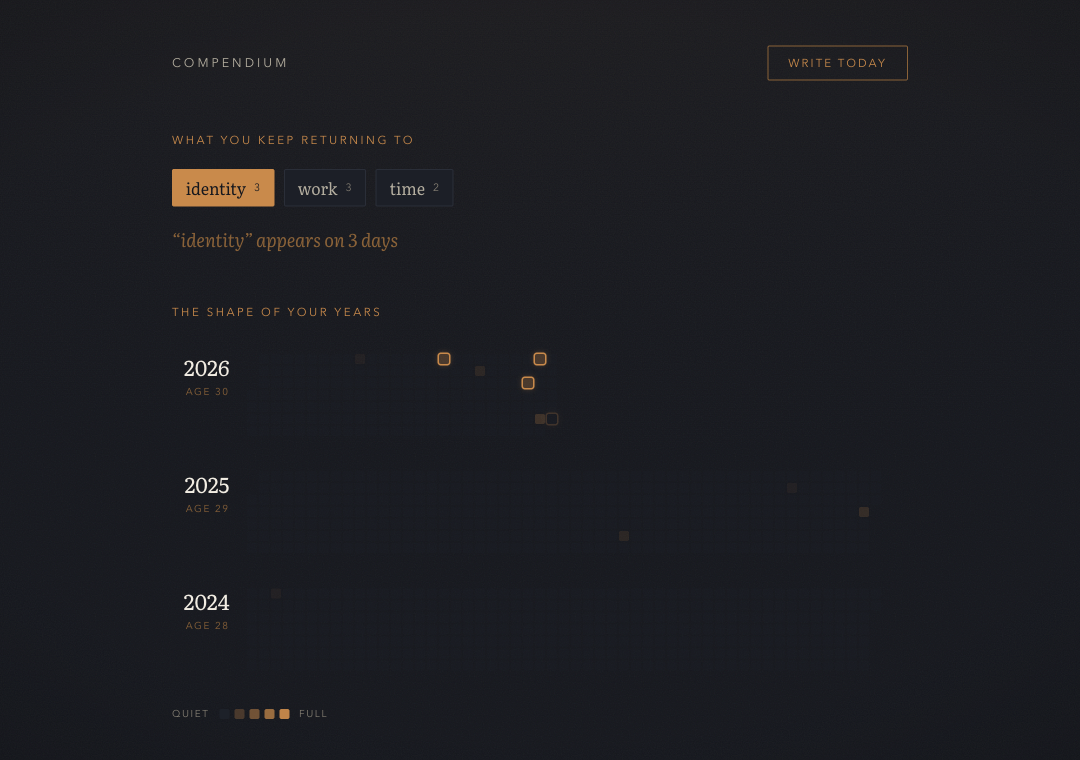
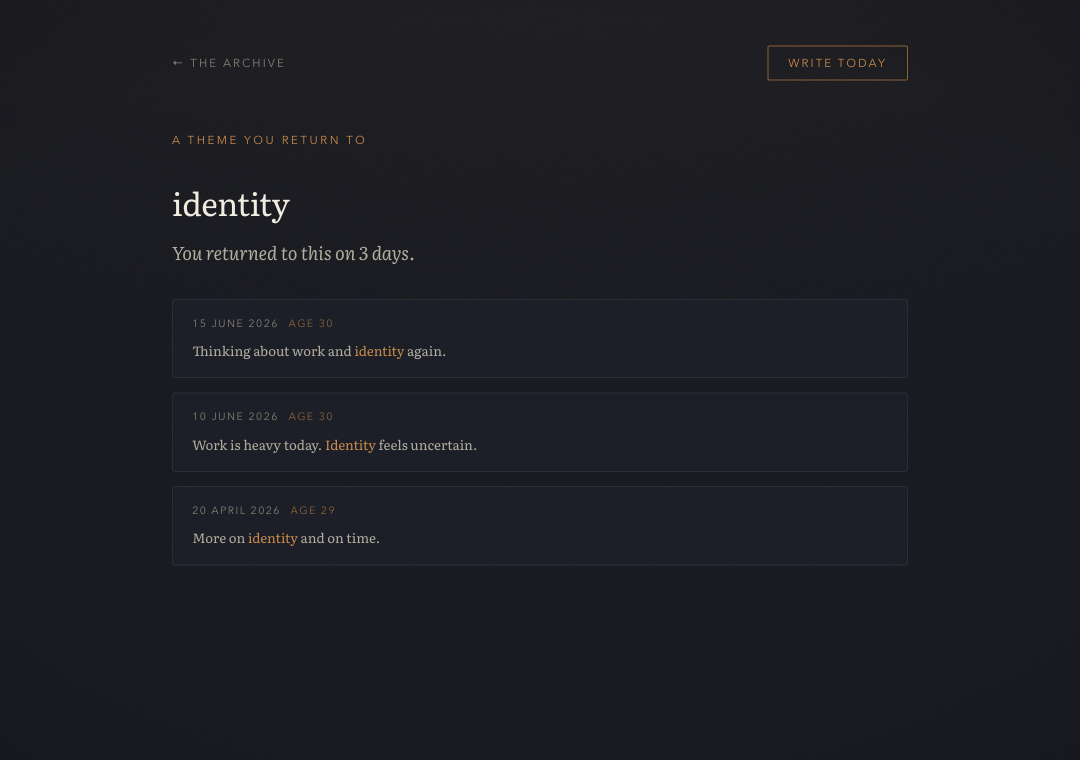
Make themes a drill-in, not just a heatmap highlight
Clicking a theme now opens a focused view of every day you wrote about it,
each with a snippet showing the word in context, and clicking an entry reads
the full day. Back returns you to the theme, not a random month. This takes
you straight to what you actually said, which the heatmap highlight did not.

- New theme-view screen; themes.js builds it with context snippets
- nav.js centralises reader opening with an origin, so the reader's back
  button returns to wherever you came from (thread or theme)
- Refresh the themes screenshot and copy to match

diff --git a/js/nav.js b/js/nav.js
@@ -1,31 +1,46 @@
 /* ============================================================================
-   nav.js: moves between screens after boot. The descent:
+   nav.js: moves between screens after boot.
 
-     today  <->  archive (heatmap)
-                   |  click a day-cell
-                   v
-                 thread (that day's month, day by day)
-                   |  click a written day
-                   v
-                 reader (the full entry, read-only)
+     today  <->  archive (heatmap + themes)
+                   |  click a day-cell            |  click a theme
+                   v                              v
+                 thread (a month, day by day)   theme-view (every day on a theme)
+                   \________________  __________/
+                                    \/  click a written day
+                                  reader (the full entry; back returns to wherever
+                                          you came from)
+                 archive  ->  settings (your data: export / import)
 
    ritual.js owns the initial onboarding -> today transition. nav.js owns every
-   transition after that, toggling the [hidden] attribute (which, per the CSS,
-   genuinely removes a screen from layout and focus order). Today is always for
+   transition after that, toggling the [hidden] attribute. Today is always for
    writing: a today-cell or today-dot jumps straight to the writing screen.
    ============================================================================ */
 
 (() => {
   const { todayId } = window.CDate;
-  const screens = ['onboarding', 'ritual', 'archive', 'thread', 'reader', 'settings']
-    .map((id) => document.getElementById(id));
+  const ids = ['onboarding', 'ritual', 'archive', 'thread', 'reader', 'settings', 'theme-view'];
+  const screens = ids.map((id) => document.getElementById(id));
+  let readerOrigin = 'thread'; // where the reader's back button returns to
 
   function show(id) {
     screens.forEach((s) => { s.hidden = s.id !== id; });
     window.scrollTo(0, 0);
   }
-
   const monthOf = (id) => [parseInt(id.slice(0, 4), 10), parseInt(id.slice(5, 7), 10) - 1];
+
+  async function openReaderFor(date, origin) {
+    if (date === todayId()) { show('ritual'); return; } // today is for writing
+    const entry = await DB.getEntry(date);
+    if (!entry || !entry.text || !entry.text.trim()) return;
+    readerOrigin = origin;
+    const d = new Date(entry.id + 'T00:00:00');
+    document.getElementById('reader-weekday').textContent = d.toLocaleDateString(undefined, { weekday: 'long' });
+    document.getElementById('reader-date').textContent = d.toLocaleDateString(undefined, { day: 'numeric', month: 'long', year: 'numeric' });
+    document.getElementById('reader-age').textContent = entry.age != null ? `Age ${entry.age}` : '';
+    document.getElementById('reader-text').textContent = entry.text;
+    show('reader');
+  }
+  window.Nav = { show, openReaderFor };
 
   // today <-> archive
   document.getElementById('to-archive').addEventListener('click', async () => {
@@ -33,17 +48,16 @@
     await Themes.render();
     show('archive');
   });
+  ['to-today', 'thread-today', 'reader-today', 'settings-today', 'theme-today'].forEach((id) => {
+    const el = document.getElementById(id);
+    if (el) el.addEventListener('click', () => show('ritual'));
+  });
 
-  // every "Write today" button and the today markers return to writing
-  ['to-today', 'thread-today', 'reader-today', 'settings-today'].forEach((id) =>
-    document.getElementById(id).addEventListener('click', () => show('ritual')));
-
-  // settings (reached from the archive nav)
-  document.querySelectorAll('.to-settings').forEach((el) =>
-    el.addEventListener('click', () => show('settings')));
+  // settings
+  document.querySelectorAll('.to-settings').forEach((el) => el.addEventListener('click', () => show('settings')));
   document.getElementById('settings-back').addEventListener('click', () => show('archive'));
 
-  // archive: click a day-cell -> open its month thread (today -> writing)
+  // archive: a day-cell opens its month thread
   document.getElementById('heatmap').addEventListener('click', async (e) => {
     const cell = e.target.closest('.cell');
     if (!cell) return;
@@ -54,42 +68,35 @@
     show('thread');
   });
 
-  // thread: back to archive, or click a written day -> reader (today -> writing)
-  document.getElementById('thread-back').addEventListener('click', () => show('archive'));
-  document.getElementById('thread-track').addEventListener('click', async (e) => {
-    const dot = e.target.closest('.tdot');
-    if (!dot) return;
-    const date = dot.dataset.date;
-    if (date === todayId()) { show('ritual'); return; }
-    const entry = await DB.getEntry(date);
-    if (entry && entry.text && entry.text.trim()) {
-      openReader(entry);
-      show('reader');
-    }
+  // archive: a theme chip opens the focused theme view
+  document.getElementById('themes').addEventListener('click', (e) => {
+    const chip = e.target.closest('.theme');
+    if (chip && Themes.openTheme(chip.dataset.word)) show('theme-view');
+  });
+  document.getElementById('theme-back').addEventListener('click', () => show('archive'));
+  document.getElementById('theme-entries').addEventListener('click', (e) => {
+    const row = e.target.closest('.theme-entry');
+    if (row) openReaderFor(row.dataset.date, 'theme-view');
   });
 
-  // reader: back returns to the month thread it was opened from
-  document.getElementById('reader-back').addEventListener('click', () => show('thread'));
+  // thread: a written day opens the reader
+  document.getElementById('thread-back').addEventListener('click', () => show('archive'));
+  document.getElementById('thread-track').addEventListener('click', (e) => {
+    const dot = e.target.closest('.tdot');
+    if (dot) openReaderFor(dot.dataset.date, 'thread');
+  });
 
-  // Esc steps back one level: reader -> thread -> archive -> today
+  // reader: back to wherever it was opened from
+  document.getElementById('reader-back').addEventListener('click', () => show(readerOrigin));
+
+  // Esc steps back one level
   document.addEventListener('keydown', (e) => {
     if (e.key !== 'Escape') return;
     const vis = (id) => !document.getElementById(id).hidden;
-    if (vis('reader')) show('thread');
+    if (vis('reader')) show(readerOrigin);
+    else if (vis('theme-view')) show('archive');
     else if (vis('settings')) show('archive');
     else if (vis('thread')) show('archive');
     else if (vis('archive')) show('ritual');
-    // on today / onboarding there is nowhere further back
   });
-
-  function openReader(entry) {
-    const d = new Date(entry.id + 'T00:00:00');
-    document.getElementById('reader-weekday').textContent =
-      d.toLocaleDateString(undefined, { weekday: 'long' });
-    document.getElementById('reader-date').textContent =
-      d.toLocaleDateString(undefined, { day: 'numeric', month: 'long', year: 'numeric' });
-    document.getElementById('reader-age').textContent =
-      entry.age != null ? `Age ${entry.age}` : '';
-    document.getElementById('reader-text').textContent = entry.text;
-  }
 })();

diff --git a/js/themes.js b/js/themes.js
@@ -1,30 +1,50 @@
 /* ============================================================================
-   themes.js: "what you keep returning to". This is the heart of the premise.
+   themes.js: "what you keep returning to". The heart of the premise.
 
-   It reads the recurring words across your entries (computed locally, no AI),
-   lists them on the archive, and lets you click one to light up every day it
-   appears on across your heatmap, so a loop in your thinking becomes visible.
+   The archive lists the words that recur across your entries (computed locally,
+   no AI). Clicking one opens a focused view of every day you wrote about it,
+   each with a snippet showing the word in context; clicking an entry reads the
+   full day. So a theme takes you straight to what you actually said, not just
+   to where on the calendar it lives.
 
-   Tokens come from patterns.js and are lowercase letters only, so they are safe
-   to place in markup without escaping.
+   Tokens come from patterns.js and are lowercase letters only, safe in markup.
    ============================================================================ */
 
 const Themes = (() => {
-  function clearHighlight(heatmap, list, status) {
-    list.querySelectorAll('.theme').forEach((b) => b.classList.remove('active'));
-    heatmap.querySelectorAll('.cell.is-marked').forEach((c) => c.classList.remove('is-marked'));
-    heatmap.classList.remove('filtered');
-    if (status) status.textContent = '';
+  let themes = [];
+  let entriesById = new Map();
+
+  function escapeHtml(s) {
+    return s.replace(/[&<>"']/g, (c) =>
+      ({ '&': '&amp;', '<': '&lt;', '>': '&gt;', '"': '&quot;', "'": '&#39;' }[c]));
+  }
+
+  // a window of text around the first mention of the word, with every
+  // occurrence emphasised
+  function snippet(text, word) {
+    const clean = text.replace(/\s+/g, ' ').trim();
+    const i = clean.toLowerCase().indexOf(word);
+    let s, lead = false, trail = false;
+    if (i < 0) {
+      s = clean.slice(0, 150); trail = clean.length > 150;
+    } else {
+      const start = Math.max(0, i - 70);
+      const end = Math.min(clean.length, i + word.length + 90);
+      s = clean.slice(start, end); lead = start > 0; trail = end < clean.length;
+    }
+    const re = new RegExp('(' + word.replace(/[.*+?^${}()|[\]\\]/g, '\\$&') + ')', 'ig');
+    const html = escapeHtml(s).replace(re, '<mark>$1</mark>');
+    return (lead ? '… ' : '') + html + (trail ? ' …' : '');
   }
 
   async function render() {
     const host = document.getElementById('themes');
     const written = (await DB.allEntries()).filter((e) => e.text && e.text.trim());
+    entriesById = new Map(written.map((e) => [e.id, e]));
 
-    // nothing written yet: let the heatmap's empty state speak instead
-    if (written.length === 0) { host.innerHTML = ''; return; }
+    if (written.length === 0) { host.innerHTML = ''; themes = []; return; }
 
-    const themes = Patterns.themeIndex(written, { minDays: 2, limit: 12 });
+    themes = Patterns.themeIndex(written, { minDays: 2, limit: 12 });
     if (themes.length === 0) {
       host.innerHTML =
         '<p class="themes-label">What you keep returning to</p>' +
@@ -38,31 +58,32 @@ const Themes = (() => {
       themes.map((t) =>
         `<button type="button" class="theme" data-word="${t.word}">` +
         `${t.word}<span class="theme-count">${t.count}</span></button>`).join('') +
-      '</div>' +
-      '<p class="themes-status" id="themes-status"></p>';
-
-    const heatmap = document.getElementById('heatmap');
-    const list = host.querySelector('.theme-list');
-    const status = document.getElementById('themes-status');
-
-    list.addEventListener('click', (e) => {
-      const btn = e.target.closest('.theme');
-      if (!btn) return;
-      const active = btn.classList.contains('active');
-      clearHighlight(heatmap, list, status); // selecting is single-choice; re-clicking clears
-      if (active) return;
-
-      btn.classList.add('active');
-      const theme = themes.find((t) => t.word === btn.dataset.word);
-      const days = new Set(theme.days);
-      heatmap.querySelectorAll('.cell').forEach((c) => {
-        if (days.has(c.dataset.date)) c.classList.add('is-marked');
-      });
-      heatmap.classList.add('filtered');
-      status.textContent =
-        `“${theme.word}” appears on ${theme.count} ${theme.count === 1 ? 'day' : 'days'}`;
-    });
+      '</div>';
   }
 
-  return { render };
+  // build the focused view for one theme; returns false if unknown
+  function openTheme(word) {
+    const theme = themes.find((t) => t.word === word);
+    if (!theme) return false;
+
+    document.getElementById('theme-view-title').textContent = word;
+    const n = theme.count;
+    document.getElementById('theme-view-sub').textContent =
+      `You returned to this on ${n} ${n === 1 ? 'day' : 'days'}.`;
+
+    const days = theme.days.slice().sort((a, b) => (a < b ? 1 : -1)); // newest first
+    document.getElementById('theme-entries').innerHTML = days.map((id) => {
+      const e = entriesById.get(id);
+      if (!e) return '';
+      const d = new Date(id + 'T00:00:00');
+      const dateStr = d.toLocaleDateString(undefined, { day: 'numeric', month: 'long', year: 'numeric' });
+      const ageStr = e.age != null ? `age ${e.age}` : '';
+      return `<button type="button" class="theme-entry" data-date="${id}">` +
+        `<span class="te-date">${dateStr}<span class="te-age">${ageStr}</span></span>` +
+        `<span class="te-snippet">${snippet(e.text, word)}</span></button>`;
+    }).join('');
+    return true;
+  }
+
+  return { render, openTheme };
 })();

diff --git a/css/compendium.css b/css/compendium.css
@@ -295,9 +295,30 @@ body {
   font-family: var(--serif); font-style: italic; color: var(--ember-soft);
 }
 
-/* when a theme is selected, its days light up and the rest recede */
-.heatmap.filtered .cell:not(.is-marked) { opacity: 0.22; }
-.cell.is-marked { box-shadow: 0 0 0 1.5px var(--ember), 0 0 6px rgba(201, 138, 75, 0.6); }
+/* ── theme view: every day you wrote about one theme ────────────────────────── */
+#theme-view { justify-content: flex-start; }
+.theme-view-body { width: 100%; max-width: var(--measure); margin: 1.5rem auto 0; }
+.theme-view-title {
+  font-family: var(--serif); font-weight: 400; font-size: 2rem; color: var(--paper);
+  margin: 0.6rem 0 0.4rem; letter-spacing: -0.01em;
+}
+.theme-view-sub { color: var(--paper-dim); font-style: italic; margin-bottom: 2rem; }
+
+.theme-entries { display: flex; flex-direction: column; gap: 0.9rem; }
+.theme-entry {
+  text-align: left; cursor: pointer; width: 100%;
+  background: var(--ink-soft); border: 1px solid var(--ink-line); border-radius: 3px;
+  padding: 1rem 1.2rem; display: flex; flex-direction: column; gap: 0.55rem;
+  transition: border-color 0.3s ease;
+}
+.theme-entry:hover { border-color: var(--ember-soft); }
+.te-date {
+  font-family: var(--label); font-size: 0.66rem; letter-spacing: 0.14em;
+  text-transform: uppercase; color: var(--paper-faint);
+}
+.te-age { color: var(--ember-soft); margin-left: 0.6rem; }
+.te-snippet { font-family: var(--serif); color: var(--paper-dim); line-height: 1.65; }
+.te-snippet mark { background: none; color: var(--ember); }
 
 .heatmap { display: flex; flex-direction: column; gap: 2.2rem; }
 .year-block { display: flex; align-items: flex-start; gap: 1.1rem; }

diff --git a/index.html b/index.html
@@ -123,6 +123,20 @@
     </article>
   </section>
 
+  <!-- ───────────────────────── a single theme, every day you wrote it ───────────────────────── -->
+  <section id="theme-view" class="screen" hidden>
+    <nav class="app-nav">
+      <button type="button" class="nav-link" id="theme-back">← The archive</button>
+      <button type="button" class="nav-link nav-cta" id="theme-today">Write today</button>
+    </nav>
+    <div class="theme-view-body">
+      <p class="kicker">A theme you return to</p>
+      <h2 class="theme-view-title" id="theme-view-title"></h2>
+      <p class="theme-view-sub" id="theme-view-sub"></p>
+      <div class="theme-entries" id="theme-entries"></div>
+    </div>
+  </section>
+
   <!-- ───────────────────────── settings ───────────────────────── -->
   <section id="settings" class="screen" hidden>
     <nav class="app-nav">

diff --git a/sw.js b/sw.js
@@ -9,7 +9,7 @@
    transmitted, or cached by this worker.
    ============================================================================ */
 
-const CACHE = 'compendium-v11';
+const CACHE = 'compendium-v12';
 const SHELL = [
   './',
   './index.html',

diff --git a/README.md b/README.md
@@ -20,9 +20,9 @@ It is local-first by design. There is no account, no server, and no network call
 
 ![The heatmap archive](docs/heatmap.png)
 
-**What you keep returning to.** Recurring words surface on their own; click one to light up every day it appears across your timeline, and see whether your thinking is moving or circling.
+**What you keep returning to.** Recurring words surface on their own; click one to see every day you wrote about it, each with the word in context, and read any of them in full. The premise made visible: are you moving, or circling?
 
-![Recurring themes](docs/themes.png)
+![A recurring theme and the days it appears](docs/themes.png)
 
 **The thread.** Clicking a day opens its month as a string of beads; hovering previews the day.
 
@@ -67,7 +67,7 @@ Built in phases. See [BUILDSTORY.md](BUILDSTORY.md) for the full design log and 
 - [x] **Phase 1: the writing ritual.** First-run setup, today-only entry, autosave, read-back.
 - [x] **Phase 2: the heatmap home.** A year-by-year grid with the age you were down the left, cell intensity by entry length, and a read-only view of any past day.
 - [x] **Phase 3: the thread drilldown.** Clicking a day opens its month as a string of day-beads, with a preview on hover and the full entry on click.
-- [x] **Phase 4: local pattern detection.** Recurring themes surfaced from your own words, with no AI; click one to light up its days across the heatmap.
+- [x] **Phase 4: local pattern detection.** Recurring themes surfaced from your own words, with no AI; click one to read every day you wrote about it, in context.
 - [x] **Markdown backup.** Export every entry as Obsidian-compatible Markdown (a `.zip` of one file per day) and import it back, merging without overwriting. Local-first, so this is also how you move between devices.
 - [ ] **Phase 5: polish and deploy.** PWA install niceties and a final calm pass.
 